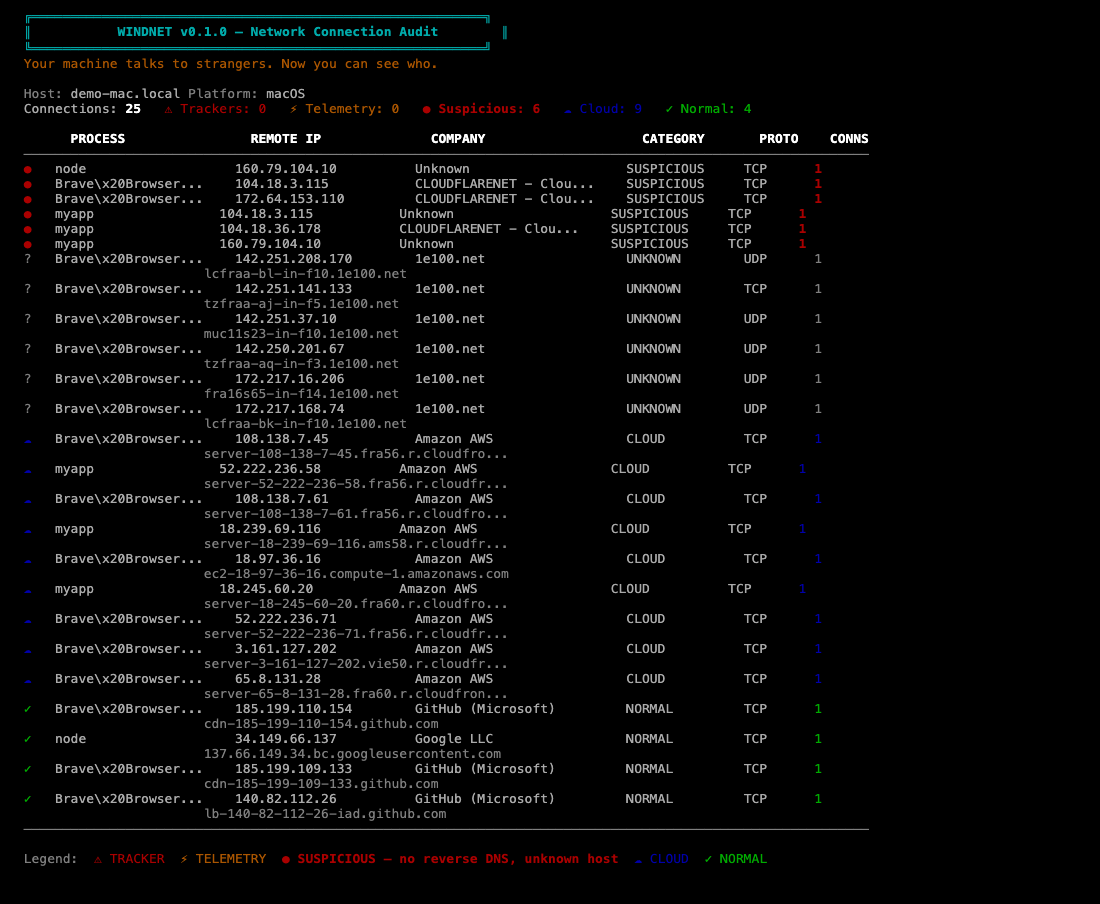
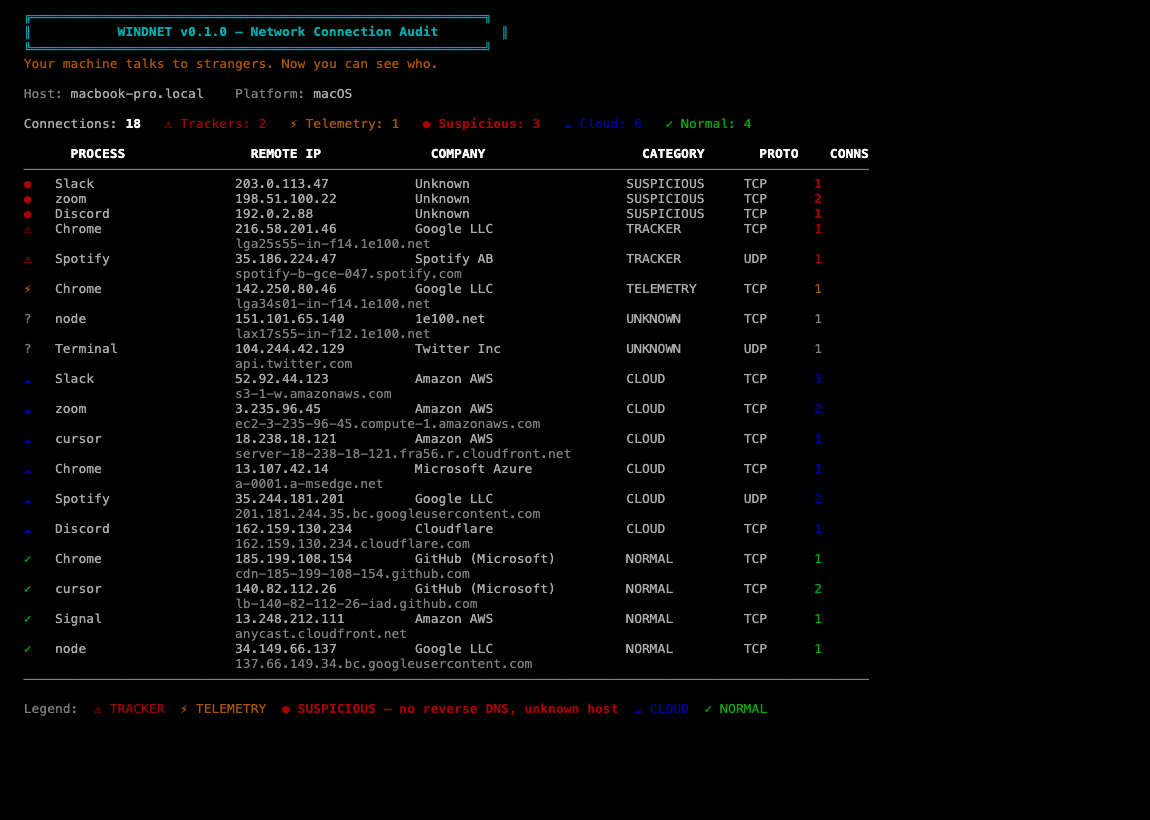
docs: add demo screenshot

diff --git a/README.md b/README.md
@@ -11,6 +11,8 @@
 
 > Your machine talks to strangers. Now you can see who.
 
+![windnet screenshot](docs/screenshot.png)
+
 Network connection auditor. See every outbound TCP and UDP connection your machine makes — which organisation owns the IP, whether it's a tracker, telemetry beacon, or cloud service. No API keys, no cloud, no data leaves your machine beyond the enrichment lookups described below.
 
 macOS supported. Linux coming soon.
